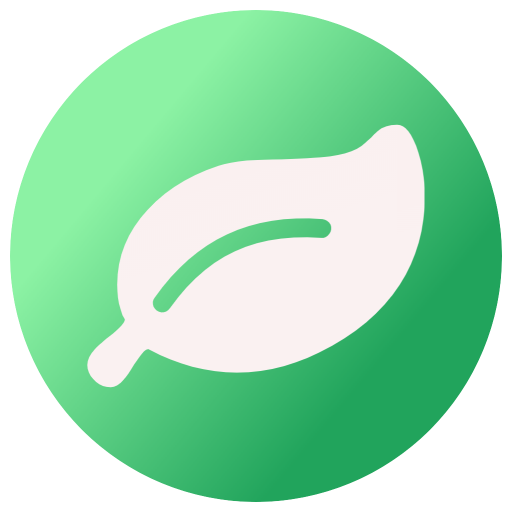
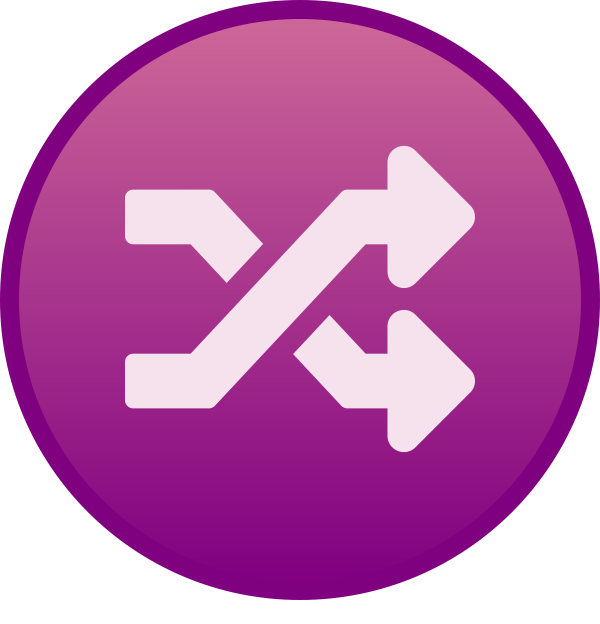
INternal re-structure

diff --git a/Support/icon.html b/Support/icon.html
@@ -1,0 +1,82 @@
+<!-- 
+wkhtmltoimage --transparent --crop-h 300 --crop-w 300 --quality 100 logos.html logos.png
+-->
+
+<html>
+    <head>
+        <script src="https://kit.fontawesome.com/7debec39cd.js" crossorigin="anonymous"></script>
+        <link href="http://fonts.googleapis.com/css?family=Roboto+Slab:400,700,300" rel='stylesheet' type='text/css'/>
+
+        <style>
+            
+        * {
+            box-sizing: border-box;
+        }    
+            
+        @page  {
+            size: 600px 600px;
+        }            
+            
+        body {
+            margin: 0;
+            padding: 0;
+            width: 600px;
+            height: 600px;
+        }
+        
+        .logo {
+            background-color: #3fc560;
+            display: inline-block;
+            padding: 5px;
+            border-radius: 50%;
+            position: relative;
+            width: 600px;
+            height: 600px;
+            text-align: center;  
+            border: 19px solid white;    
+        }
+        
+        .logo.green { background-image: -webkit-linear-gradient(top, #a8e063, #4CAF50); border-color: #4CAF50;  }
+        .logo.green svg { color: #FFF; }   
+        
+        .logo.blue { background-image: -webkit-linear-gradient(top, #8892bf, #275fad);  border-color: #275fad;  }
+        .logo.blue svg { color: #FFF; }                   
+        
+        .logo.pink { background-image: -webkit-linear-gradient(top, #cd6798, #800080); border-color: #800180; }    
+        .logo.pink svg { color: #f5e2ec; }
+        
+        .logo.yellow { background-image: -webkit-linear-gradient(top, #f0db4f, #847408); border-color: #847408; }
+        .logo.yellow svg { color: #fff;  }
+        
+        .logo svg {
+            width: 350px;
+            height: 350px;
+            color: #443b01;     
+        }
+        
+        .logo .icon {
+            width: 550px;
+            height: 600px;
+            margin-left: auto;
+            margin-right: auto;  
+            padding: 100px;          
+        }
+
+        </style>
+
+<script>
+  window.devicePixelRatio = 4;
+</script>
+
+    </head>
+    
+    <body>
+        
+        <div class="logo pink">
+            <div class="icon">
+                <svg aria-hidden="true" focusable="false" data-prefix="fas" data-icon="random" class="svg-inline--fa fa-random fa-w-16" role="img" xmlns="http://www.w3.org/2000/svg" viewBox="0 0 512 512"><path fill="currentColor" d="M504.971 359.029c9.373 9.373 9.373 24.569 0 33.941l-80 79.984c-15.01 15.01-40.971 4.49-40.971-16.971V416h-58.785a12.004 12.004 0 0 1-8.773-3.812l-70.556-75.596 53.333-57.143L352 336h32v-39.981c0-21.438 25.943-31.998 40.971-16.971l80 79.981zM12 176h84l52.781 56.551 53.333-57.143-70.556-75.596A11.999 11.999 0 0 0 122.785 96H12c-6.627 0-12 5.373-12 12v56c0 6.627 5.373 12 12 12zm372 0v39.984c0 21.46 25.961 31.98 40.971 16.971l80-79.984c9.373-9.373 9.373-24.569 0-33.941l-80-79.981C409.943 24.021 384 34.582 384 56.019V96h-58.785a12.004 12.004 0 0 0-8.773 3.812L96 336H12c-6.627 0-12 5.373-12 12v56c0 6.627 5.373 12 12 12h110.785c3.326 0 6.503-1.381 8.773-3.812L352 176h32z"></path></svg>
+            </div>
+        </div>
+        
+    </body>
+</html>

diff --git a/Scripts/SassService.js b/Scripts/SassService.js
@@ -5,17 +5,17 @@
 // Copyright © 2020 Vine Code Limited. All rights reserved.
 //
 
-class NovaSassService {
+class SassService {
 	constructor() {
 
 	}
 
   get getArgs() {
     
-    var cssStyle  = nova.config.get('VineCode.NovaSass.cssStyle');
-    var errorCss  = nova.config.get('VineCode.NovaSass.errorCss');
-    var sourceMap = nova.config.get('VineCode.NovaSass.sourceMap'); 
-    var execPath  = nova.config.get('VineCode.NovaSass.execPath');       
+    var cssStyle  = nova.config.get('VineCode.Sass.cssStyle');
+    var errorCss  = nova.config.get('VineCode.Sass.errorCss');
+    var sourceMap = nova.config.get('VineCode.Sass.sourceMap'); 
+    var execPath  = nova.config.get('VineCode.Sass.execPath');       
     
     if(!execPath) {
       execPath = 'sass';
@@ -122,4 +122,4 @@ class NovaSassService {
   }
 }
 
-module.exports = NovaSassService;
+module.exports = SassService;

diff --git a/Scripts/main.js b/Scripts/main.js
@@ -5,13 +5,13 @@
 // Copyright © 2020 Vine Code Limited. All rights reserved.
 //
 
-const NovaSassService = require('./NovaSassService');
+const SassService = require('./SassService');
 
 exports.activate = function() {
-	const novaSass = new NovaSassService();
+	const Sass = new SassService();
 
 	// "Compile on Save"
 	nova.workspace.onDidAddTextEditor(editor => {
-		return editor.onWillSave(novaSass.compileSassUpdate.bind(novaSass));
+		return editor.onWillSave(Sass.compileSassUpdate.bind(Sass));
 	});
 };

diff --git a/Support/master.css b/Support/master.css
@@ -1,0 +1,9 @@
+.extra-item {
+  color: red;
+}
+
+test inner {
+  color: red;
+}
+
+/*# sourceMappingURL=master.css.map */

diff --git a/README.md b/README.md
@@ -21,7 +21,7 @@ Before using this extension, you must ensure that `sass` is installed on your sy
 
 1. Open Nova.
 2. Choose menu **Extensions** > **Extension Library...**
-3. Search extension `NovaSass`
+3. Search extension `Sass`
 5. Click **Install**.
 
 ## Preferences 

diff --git a/CHANGELOG.md b/CHANGELOG.md
@@ -1,5 +1,8 @@
 # ChangeLog
 
+## Version 1.0
+- Icon change and internal re-structure
+
 ## Version 0.9
 - Auto hide the error notification after 10 seconds or if the file is re-saved without an error.
 - Other bug fixes
